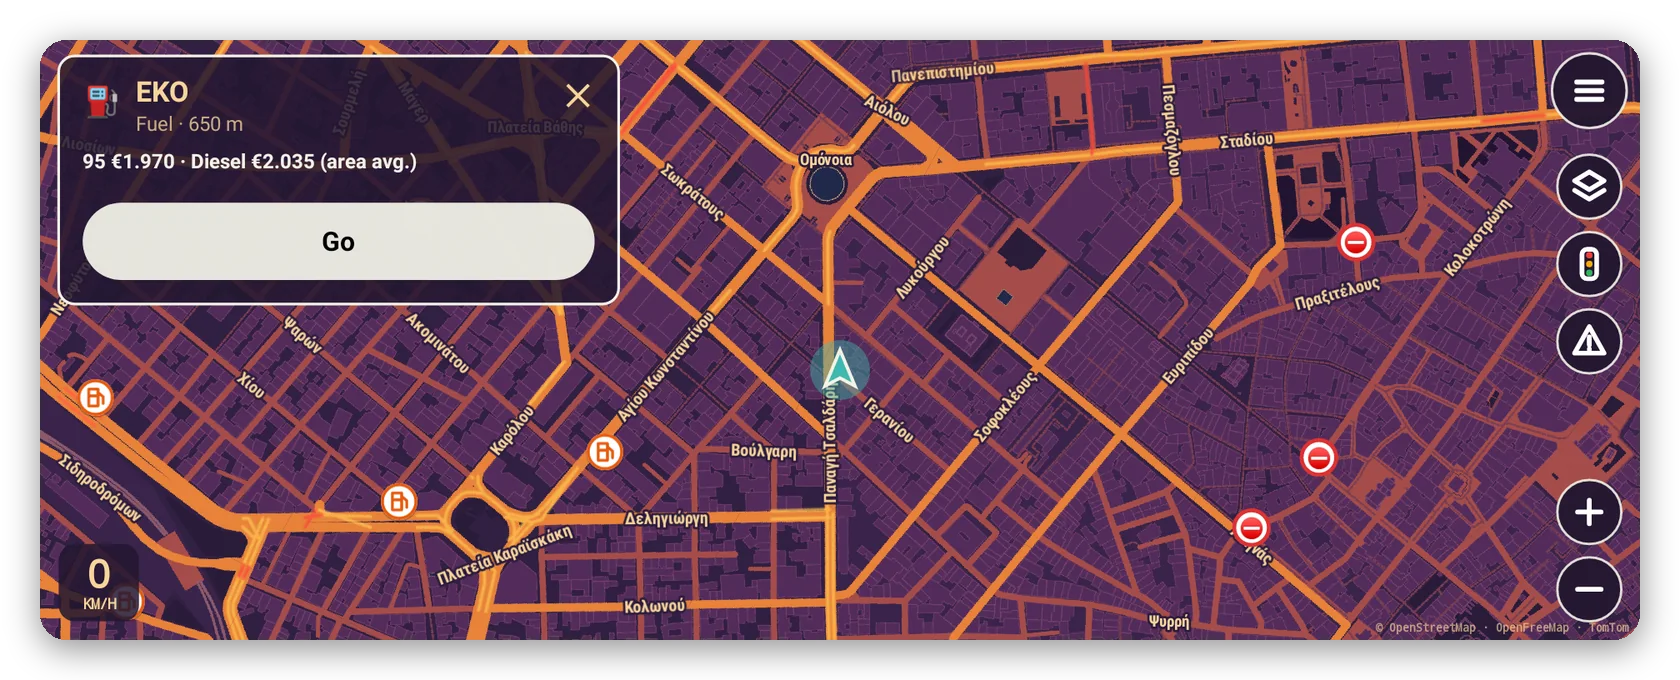
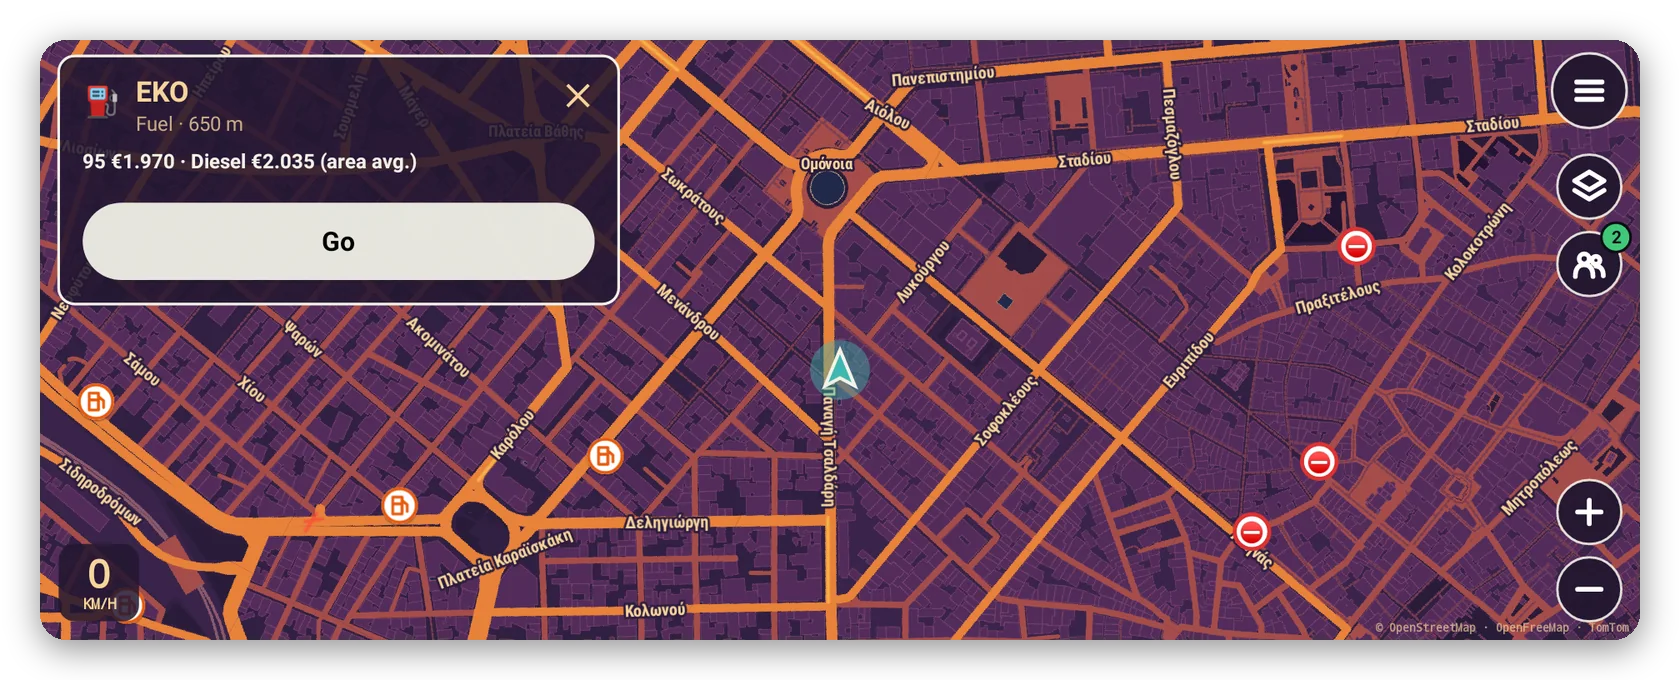
README for build 100: what's new, turn box, voice, GPS, status, quick messages, prestige, recap, car, performance, backup; fresh screenshots
Claude-Session: https://claude.ai/code/session_01CciuioJVfRXxS6M8gZ8SfV

diff --git a/README.md b/README.md
@@ -16,7 +16,7 @@ Android · Android Auto · English and Ελληνικά
 </div>
 
 > [!TIP]
-> **New:** XP and levels with a Garage, 14 map styles, a rebuilt convoy with READY UP, offline routing, and a calmer screen while you drive.
+> **New in build 100:** prestige ranks from Bronze to Diamond, a celebration every 5 levels, your monthly recap, a new turn box with a sketch of every junction, clearer spoken directions, better GPS, your status (Online / Do not disturb / Invisible), friends and convoys in Android Auto, a smoother map with a Performance page, a home screen widget, and backup & restore.
 
 ## ✨ At a glance
 
@@ -25,7 +25,7 @@ Android · Android Auto · English and Ελληνικά
 - 📴 **Works offline:** maps, places and routes with no signal
 - 👥 **Convoy:** drive together, race with a 3-2-1
 - 🤝 **Friends:** invite them in one tap
-- 🏆 **XP, levels and a Garage** of unlocks
+- 🏆 **XP, levels, prestige ranks** and a Garage of unlocks
 - 🎨 **14 map styles**, each with day and night
 - 🚘 **Android Auto**, with its own style
 
@@ -43,8 +43,10 @@ Pick from up to **three routes**, each timed with live traffic, with the jams an
 
 <img src="docs/screenshots/drive.webp" alt="Driving in Violet Rain, and the calm driving screen with messages waiting" width="100%">
 
-A big turn card with lanes, your speed next to the limit, and warnings for jams and cameras.
+A **turn box like a rally roadbook**: the distance, a sketch of the junction with your way out marked, and the next turn underneath, in every style. The road you're on shows at the bottom.
 
+- **Clear voice:** "In 200 metres, turn right", then "Turn right" at the right moment (1 km and 500 m on the motorway). Choose how much it talks
+- **Better GPS:** the arrow stays on the road, ignores jumps between tall buildings, and tells you when the signal is weak
 - **Calm while moving:** the buttons fade; tap the map to bring them back
 - **Nothing pops up at speed:** landmarks and friend news wait for when you stop
 - **Tunnels** stay drawn, and **no signal** keeps the route going
@@ -66,13 +68,17 @@ Download a region in **Settings ▸ Offline maps** and the map and places work w
 
 <img src="docs/screenshots/race.webp" alt="The invite screen with QR code, and the 3-2-1 start" width="100%">
 
-**Invite** with a QR code, a link, or your friends in one tap. Everyone's arrow, name and speed update every second.
+**Invite** with a QR code, a link, or your friends in one tap. Everyone's arrow, name and speed update every second, distances match on every phone, and the 3-2-1 starts at the same moment for all.
+
+**Quick messages:** "Need fuel", "Stopping soon", "Go ahead", "Wait for me": one tap, read aloud to everyone driving.
 
 ## 🤝 You and your friends
 
 <img src="docs/screenshots/friends.webp" alt="The You screen, and the friends list" width="100%">
 
 **One button** for everything that's yours: your level, the Garage, friends, trips and settings. Friend requests and convoy invites wait on top.
+
+**Your status:** Online, **Do not disturb** (invites wait quietly) or **Invisible** (you look offline), back to Online by itself when you choose.
 
 **Your location is never shared with friends,** only inside a convoy you both join.
 
@@ -84,7 +90,9 @@ Earn XP for every trip, **new roads**, **clean drives**, convoys, a **daily stre
 
 <img src="docs/screenshots/garage.webp" alt="The Garage, and the style picker" width="100%">
 
-Levels unlock **arrows, route colours, destination flags and arrival effects**, and each style has its own titles. Prestige at level 50. Your level stays private unless you choose to show it.
+Levels unlock **arrows, route colours, destination flags and arrival effects**, and each style has its own titles, with a **celebration every 5 levels** in your style's look. At level 50, **prestige** to Bronze, Silver, Gold, Platinum and Diamond: more XP for good and rewards in each rank's colour. Your level stays private unless you choose to show it.
+
+**Your recap:** your month or year on the road as a card to share (never Home or Work).
 
 ## 📍 Places and fuel
 
@@ -97,6 +105,9 @@ Fuel, parking and food on the map. Fuel sorted by price for your fuel; chargers 
 <img src="docs/screenshots/car-drive.webp" alt="Driving on Android Auto" width="100%">
 
 The same map on the car screen, with the convoy box, places to tap, and its own style. It turns dark with your headlights.
+
+- **Turns on the car's own display** behind the wheel and the head-up display, where the car supports it
+- **Friends in the car:** see who's online, invite in one tap, start a convoy, READY UP in the lobby, send a quick message
 
 <details>
 <summary><b>More car screens</b></summary>
@@ -135,6 +146,12 @@ Light, dark, or switching by itself at sunset.
 </details>
 
 ---
+
+## ⚡ Performance and your data
+
+**Settings ▸ Performance:** Auto, Smooth or Battery; map effects, animations and smoothness your way. The map draws about a third faster than before, keeps finished map squares on the phone, and rests the GPS at red lights.
+
+**Backup & restore** keeps your level, prestige, Garage, trips, places and friends in one file when you change phones. A **home screen widget** shows Home and Work with the drive time.
 
 ## 📲 Install
 

diff --git a/PLAN-100.md b/PLAN-100.md
@@ -1,4 +1,4 @@
-# Update 100 — the plan
+# Update 100 — the plan (released as build-100, 16 Nov 2026)
 
 Agreed with the owner on 16 Nov 2026. Mockups: the "GameRoute — UI & experience mockups" canvas, rows 31–39
 (board numbers below). Built in 4 stages, each with its own test build; release 100 goes out when all 4 pass.
